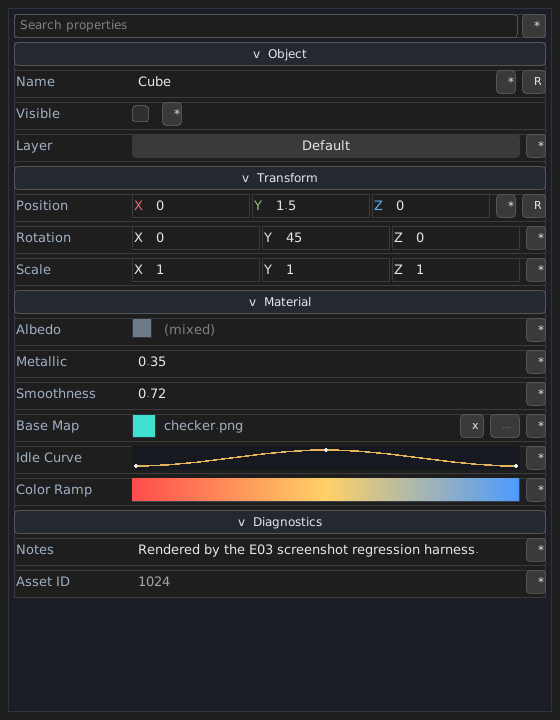
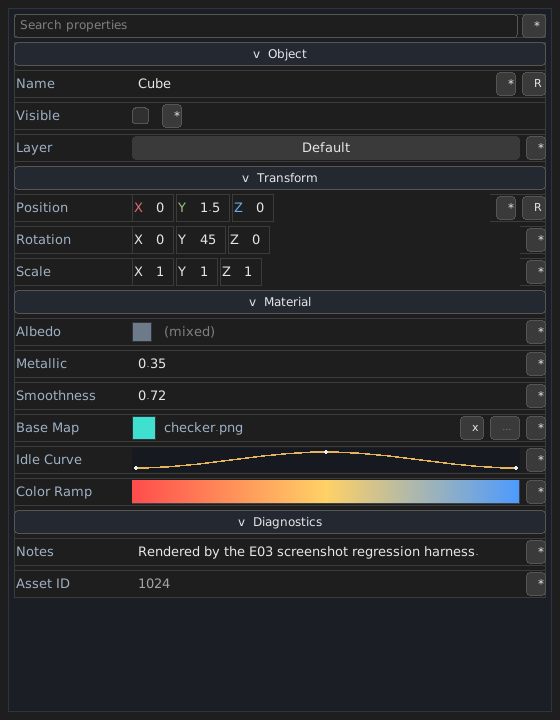
w

diff --git a/gui/vgui.cpp b/gui/vgui.cpp
@@ -458,6 +458,9 @@ struct vgui_widget
 	float content_w = 0, content_h = 0;
 	int scroll_drag_axis = 0;	// 面板滚动条拖动: 0 无 / 1 垂直 / 2 水平
 	float scroll_drag_grab = 0;
+	/* Per-panel scrollbar override in logical units.  0 widths / negative inset
+	 * keep the context style, so only panels that opt in differ. */
+	float scrollbar_width_h = 0, scrollbar_width_v = 0, scrollbar_inset = -1;
 
 	float abs_x = 0, abs_y = 0, abs_w = 0, abs_h = 0;
 	float intrinsic_w = 0, intrinsic_h = 0;
@@ -6969,6 +6972,21 @@ namespace {
 		float scroll = 0;
 	};
 
+	// Panel scrollbar thickness/inset in effective pixels for one axis
+	// (1 = vertical, 2 = horizontal): the widget override (stored in logical
+	// units) when set, otherwise the context style.
+	static void vgui_panel_scrollbar_metrics(vgui_widget* w, int axis, float* width,
+		float* inset)
+	{
+		const vgui_panel_style& ps = w->ctx->style.panel;
+		const float scale = w->ctx->ui_scale > 0.0f ? w->ctx->ui_scale : 1.0f;
+		const float override_w = axis == 2 ? w->scrollbar_width_h
+			: w->scrollbar_width_v;
+		*width = override_w > 0.0f ? override_w * scale : ps.scrollbar_width;
+		*inset = w->scrollbar_inset >= 0.0f
+			? w->scrollbar_inset * scale : ps.scrollbar_inset;
+	}
+
 	// Computes the geometry of a visible scrollbar.  The values mirror the drawing
 	// code so what the user grabs is exactly what is painted.
 	static bool vgui_scrollbar_geom(vgui_widget* w, int axis, vgui_scrollbar_info* g)
@@ -6983,9 +7001,11 @@ namespace {
 		if (axis == 1)
 		{
 			if (!w->scrollable_y || w->content_h <= ih + 0.5f || ih <= st.panel.scrollbar_min_track) return false;
+			float bar_w = 0.0f, bar_inset = 0.0f;
+			vgui_panel_scrollbar_metrics(w, 1, &bar_w, &bar_inset);
 			g->track = vgui_is_rtl(w->ctx)
 				? w->abs_x
-				: w->abs_x + w->abs_w - (st.panel.scrollbar_width + st.panel.scrollbar_inset);
+				: w->abs_x + w->abs_w - (bar_w + bar_inset);
 			g->start = iy;
 			g->span = ih;
 			g->thumb_len = std::min(ih, std::max(st.panel.scrollbar_min_thumb, ih * ih / w->content_h));
@@ -6995,7 +7015,9 @@ namespace {
 		else if (axis == 2)
 		{
 			if (!w->scrollable_x || w->content_w <= iw + 0.5f || iw <= st.panel.scrollbar_min_track) return false;
-			g->track = w->abs_y + w->abs_h - (st.panel.scrollbar_width + st.panel.scrollbar_inset);
+			float bar_w = 0.0f, bar_inset = 0.0f;
+			vgui_panel_scrollbar_metrics(w, 2, &bar_w, &bar_inset);
+			g->track = w->abs_y + w->abs_h - (bar_w + bar_inset);
 			g->start = ix;
 			g->span = iw;
 			g->thumb_len = std::min(iw, std::max(st.panel.scrollbar_min_thumb, iw * iw / w->content_w));
@@ -7095,7 +7117,11 @@ namespace {
 			vgui_scrollbar_info g;
 			const vgui_style& st = w->ctx->style;
 			float edit_hit = st.edit.scrollbar_width + st.edit.scrollbar_inset + st.edit.scrollbar_hit_padding;
-			float panel_hit = st.panel.scrollbar_width + st.panel.scrollbar_inset + st.panel.scrollbar_hit_padding;
+			float panel_w_v = 0.0f, panel_w_h = 0.0f, panel_inset = 0.0f;
+			vgui_panel_scrollbar_metrics(w, 1, &panel_w_v, &panel_inset);
+			vgui_panel_scrollbar_metrics(w, 2, &panel_w_h, &panel_inset);
+			float panel_hit_v = panel_w_v + panel_inset + st.panel.scrollbar_hit_padding;
+			float panel_hit_h = panel_w_h + panel_inset + st.panel.scrollbar_hit_padding;
 			if (w->kind == VGUI_EDIT &&
 				x >= (vgui_is_rtl(w->ctx) ? w->abs_x : w->abs_x + w->abs_w - edit_hit) &&
 				x <= (vgui_is_rtl(w->ctx) ? w->abs_x + edit_hit : w->abs_x + w->abs_w) &&
@@ -7121,8 +7147,8 @@ namespace {
 				// Keep walking after a hit: ancestor bars are painted on top of
 				// descendant bars where the two overlap, and the horizontal bar is
 				// painted after the vertical one.
-				if (x >= (vgui_is_rtl(w->ctx) ? w->abs_x : w->abs_x + w->abs_w - panel_hit) &&
-					x <= (vgui_is_rtl(w->ctx) ? w->abs_x + panel_hit : w->abs_x + w->abs_w) &&
+				if (x >= (vgui_is_rtl(w->ctx) ? w->abs_x : w->abs_x + w->abs_w - panel_hit_v) &&
+					x <= (vgui_is_rtl(w->ctx) ? w->abs_x + panel_hit_v : w->abs_x + w->abs_w) &&
 					y >= w->abs_y && y <= w->abs_y + w->abs_h &&
 					vgui_scrollbar_geom(w, 1, &g) &&
 					y >= g.start && y <= g.start + g.span)
@@ -7130,7 +7156,7 @@ namespace {
 					found = w;
 					found_axis = 1;
 				}
-				if (y >= w->abs_y + w->abs_h - panel_hit && y <= w->abs_y + w->abs_h &&
+				if (y >= w->abs_y + w->abs_h - panel_hit_h && y <= w->abs_y + w->abs_h &&
 					x >= w->abs_x && x <= w->abs_x + w->abs_w &&
 					vgui_scrollbar_geom(w, 2, &g) &&
 					x >= g.start && x <= g.start + g.span)
@@ -7275,8 +7301,11 @@ namespace {
 		const float ih = std::max(0.0f, w->abs_h - w->padding[1] - w->padding[3]);
 		if (w->scrollable_y && w->content_h > ih + 0.5f &&
 			ih > st.panel.scrollbar_min_track)
-			return st.panel.scrollbar_width + st.panel.scrollbar_inset +
-				st.panel.scrollbar_hit_padding + 2.0f;
+		{
+			float bar_w = 0.0f, bar_inset = 0.0f;
+			vgui_panel_scrollbar_metrics(w, 1, &bar_w, &bar_inset);
+			return bar_w + bar_inset + st.panel.scrollbar_hit_padding + 2.0f;
+		}
 		return 0.0f;
 	}
 
@@ -11415,28 +11444,30 @@ namespace {
 		float iy = w->abs_y + w->padding[1];
 		float iw = std::max(0.0f, w->abs_w - w->padding[0] - w->padding[2]);
 		float ih = std::max(0.0f, w->abs_h - w->padding[1] - w->padding[3]);
-		float bar_w = ps.scrollbar_width;
+		float bar_w_v = 0.0f, bar_w_h = 0.0f, bar_inset = 0.0f;
+		vgui_panel_scrollbar_metrics(w, 1, &bar_w_v, &bar_inset);
+		vgui_panel_scrollbar_metrics(w, 2, &bar_w_h, &bar_inset);
 		float bar_r = ps.scrollbar_rounding;
-		float corner = bar_w + ps.scrollbar_inset;
 		if (w->scrollable_y && w->content_h > ih + 0.5f && ih > ps.scrollbar_min_track)
 		{
-			float track_x = vgui_is_rtl(ctx) ? w->abs_x : w->abs_x + w->abs_w - corner;
+			float track_x = vgui_is_rtl(ctx) ? w->abs_x
+				: w->abs_x + w->abs_w - (bar_w_v + bar_inset);
 			float th = std::min(ih, std::max(ps.scrollbar_min_thumb, ih * ih / w->content_h));
 			float max_scroll = w->content_h - ih;
 			float ty = iy + (max_scroll > 0 ? (w->scroll_y / max_scroll) * (ih - th) : 0);
-			vgui_fill_rect(cb, vg, track_x, iy, bar_w, ih, bar_r, vgui_widget_color(w, ctx->theme.track));
-			vgui_fill_rect(cb, vg, track_x, ty, bar_w, th, bar_r, vgui_scrollbar_thumb_color(w, 1));
+			vgui_fill_rect(cb, vg, track_x, iy, bar_w_v, ih, bar_r, vgui_widget_color(w, ctx->theme.track));
+			vgui_fill_rect(cb, vg, track_x, ty, bar_w_v, th, bar_r, vgui_scrollbar_thumb_color(w, 1));
 		}
 		if (w->scrollable_x && w->content_w > iw + 0.5f && iw > ps.scrollbar_min_track)
 		{
-			float track_y = w->abs_y + w->abs_h - corner;
+			float track_y = w->abs_y + w->abs_h - (bar_w_h + bar_inset);
 			float tw = std::min(iw, std::max(ps.scrollbar_min_thumb, iw * iw / w->content_w));
 			float max_scroll = w->content_w - iw;
 			float ratio = max_scroll > 0 ? (w->scroll_x / max_scroll) : 0.0f;
 			if (vgui_is_rtl(ctx)) ratio = 1.0f - ratio;
 			float tx = ix + ratio * (iw - tw);
-			vgui_fill_rect(cb, vg, ix, track_y, iw, bar_w, bar_r, vgui_widget_color(w, ctx->theme.track));
-			vgui_fill_rect(cb, vg, tx, track_y, tw, bar_w, bar_r, vgui_scrollbar_thumb_color(w, 2));
+			vgui_fill_rect(cb, vg, ix, track_y, iw, bar_w_h, bar_r, vgui_widget_color(w, ctx->theme.track));
+			vgui_fill_rect(cb, vg, tx, track_y, tw, bar_w_h, bar_r, vgui_scrollbar_thumb_color(w, 2));
 		}
 	}
 
@@ -15245,6 +15276,16 @@ extern "C" {
 		if (!panel) return;
 		panel->scrollable_x = horizontal ? 1 : 0;
 		panel->scrollable_y = vertical ? 1 : 0;
+		vgui_mark_dirty(panel);
+	}
+
+	void vgui_panel_set_scrollbar_size(vgui_widget* panel, float horizontal,
+		float vertical, float inset)
+	{
+		if (!panel) return;
+		panel->scrollbar_width_h = horizontal > 0.0f ? horizontal : 0.0f;
+		panel->scrollbar_width_v = vertical > 0.0f ? vertical : 0.0f;
+		panel->scrollbar_inset = inset >= 0.0f ? inset : -1.0f;
 		vgui_mark_dirty(panel);
 	}
 

diff --git a/gui/editor/spinbox.cpp b/gui/editor/spinbox.cpp
@@ -213,6 +213,18 @@ namespace vgui_editor_kit {
 		return edit_min_width_;
 	}
 
+	void spinbox::set_auto_width(bool enabled)
+	{
+		auto_width_ = enabled;
+		auto_width_applied_ = 0.0f;
+		apply_auto_width();
+	}
+
+	bool spinbox::auto_width() const noexcept
+	{
+		return auto_width_;
+	}
+
 	void spinbox::apply_font()
 	{
 		/* 0 resets to "inherit the context font". */
@@ -232,13 +244,58 @@ namespace vgui_editor_kit {
 		if (label_widget_)
 			vgui_widget_set_size(label_widget_,
 				label_.empty() ? kEmptyLabelWidth : label_width_, row_h);
+		auto_width_applied_ = 0.0f;
 		if (edit_)
-			vgui_widget_set_size(edit_,
-				edit_min_width_ > 0.0f ? edit_min_width_ : 0.0f, row_h);
+		{
+			const float width = edit_min_width_ > 0.0f ? edit_min_width_
+				: (auto_width_ ? auto_edit_width() : 0.0f);
+			if (auto_width_ && edit_min_width_ <= 0.0f)
+				auto_width_applied_ = width;
+			vgui_widget_set_size(edit_, width, row_h);
+		}
 		if (decrement_.widget())
 			vgui_widget_set_size(decrement_.widget(), row_h, row_h);
 		if (increment_.widget())
 			vgui_widget_set_size(increment_.widget(), row_h, row_h);
+	}
+
+	/* Width that fits the text currently in the edit.  Falls back to a
+	 * per-character estimate when the font is unavailable (headless tests) so
+	 * the field never collapses to bare padding. */
+	float spinbox::auto_edit_width() const
+	{
+		if (!edit_)
+			return 0.0f;
+		const char* current = vgui_edit_get_text(edit_);
+		const std::string text = current ? current : value_text();
+		vgui_context* ctx = vgui_widget_get_context(edit_);
+		float text_w = text.empty() ? 0.0f
+			: to_logical(edit_, vgui_widget_measure_text(edit_, text.c_str()));
+		if (text_w <= 0.0f)
+		{
+			const float font = font_size_ > 0.0f
+				? font_size_ : editor_font_size(ctx);
+			text_w = font * 0.62f * (float)text.size();
+		}
+		float padding = 16.0f;
+		if (ctx)
+		{
+			vgui_style style;
+			vgui_context_get_style(ctx, &style);
+			padding = style.edit.padding_x * 2.0f + 4.0f;
+		}
+		return text_w + std::max(padding, 16.0f);
+	}
+
+	void spinbox::apply_auto_width()
+	{
+		if (!edit_ || !auto_width_ || edit_min_width_ > 0.0f)
+			return;
+		const float width = std::max(auto_edit_width(), 24.0f);
+		if (std::fabs(width - auto_width_applied_) < 0.5f)
+			return;
+		auto_width_applied_ = width;
+		vgui_widget_set_size(edit_, width, chrome_row_height());
 	}
 
 	float spinbox::chrome_row_height() const
@@ -411,6 +468,7 @@ namespace vgui_editor_kit {
 		const char* current = vgui_edit_get_text(edit_);
 		if (!current || text != current)
 			vgui_edit_set_text(edit_, text.c_str());
+		apply_auto_width();
 	}
 
 	bool spinbox::commit_text(std::string text)

diff --git a/gui/editor/property_grid.cpp b/gui/editor/property_grid.cpp
@@ -592,6 +592,9 @@ namespace vgui_editor_kit {
 		/* Narrow hosts keep rows usable: below this width the panel scrolls
 		 * horizontally instead of squeezing the editor fields to nothing. */
 		vgui_panel_set_scrollable(panel_, 1, 1);
+		/* The stock 5px bar is hard to grab with a pointer; the horizontal bar
+		 * (the one a narrow dock shows) uses a thicker body and hit area. */
+		vgui_panel_set_scrollbar_size(panel_, 10, 0, -1);
 
 		/* 搜索行 = 搜索框 + P08 收藏过滤开关(高度保持 24,kSearchLead
 		 * 不变)。 */
@@ -1806,6 +1809,9 @@ private:
 		vgui_widget_set_size(item.line, 0, kRowHeight);
 		vgui_widget_set_align_self(item.line, VGUI_ALIGN_STRETCH);
 		vgui_widget_set_layout(item.line, VGUI_LAYOUT_ROW);
+		/* 24px controls sit in a 28px row; centering keeps the 2px slack on
+		 * both edges so labels and values share one baseline. */
+		vgui_widget_set_align_items(item.line, VGUI_ALIGN_CENTER);
 		vgui_widget_set_gap(item.line, 6);
 		vgui_widget_set_padding(item.line, 0, 0, 0, 0);
 
@@ -1931,8 +1937,11 @@ private:
 			if (item.vector_ui->widget())
 			{
 				vgui_widget_set_grow(item.vector_ui->widget(), 1.0f);
-				vgui_widget_set_size(item.vector_ui->widget(), 0, 24);
-				vgui_widget_set_min_size(item.vector_ui->widget(), 80, 24);
+				/* Fill the row so the component borders line up with the row
+				 * border instead of leaving a gap at the bottom. */
+				vgui_widget_set_size(item.vector_ui->widget(), 0, kRowHeight);
+				vgui_widget_set_min_size(item.vector_ui->widget(), 80,
+					kRowHeight);
 				/* Let the row background show through the value fields. */
 				for (int i = 0; i < item.vector_ui->dimension(); ++i)
 				{

diff --git a/gui/editor/vector_editor.cpp b/gui/editor/vector_editor.cpp
@@ -81,7 +81,10 @@ namespace vgui_editor_kit {
 		vgui_widget_set_layout(panel_, VGUI_LAYOUT_ROW);
 		vgui_widget_set_padding(panel_, 0, 0, 0, 0);
 		vgui_widget_set_gap(panel_, 2);
-		vgui_widget_set_align_items(panel_, VGUI_ALIGN_CENTER);
+		/* Components stretch to the parent row: property-grid rows are 28px
+		 * while the spinbox chrome is 24px, and the value boxes must touch the
+		 * row border on both edges instead of hanging from the top. */
+		vgui_widget_set_align_items(panel_, VGUI_ALIGN_STRETCH);
 
 		components_.clear();
 		for (int i = 0; i < dimension_; ++i)
@@ -97,13 +100,17 @@ namespace vgui_editor_kit {
 			box->set_label(labels_[(std::size_t)i]);
 			box->set_label_width(kAxisLabelWidth);
 			box->set_buttons_visible(false);
+			/* Each field only reserves room for its own digits, so short
+			 * values stay compact and longer values widen their field. */
+			box->set_auto_width(true);
 			box->set_on_change([this, i](double) { handle_change(i); });
 			box->set_on_commit([this, i](double) { handle_commit(i); });
 			box->build(panel_);
 			if (!box->widget())
 				continue;
-			vgui_widget_set_grow(box->widget(), 1.0f);
-			vgui_widget_set_size(box->widget(), 0, kRowHeight);
+			/* No grow: each component keeps the width its own text needs, so
+			 * short values do not reserve the same space as long ones. */
+			vgui_widget_set_size(box->widget(), 0, 0);
 			vgui_widget_set_min_size(box->widget(), kComponentMinWidth,
 				kRowHeight);
 			components_.push_back(std::move(box));

diff --git a/gui/editor/spinbox.h b/gui/editor/spinbox.h
@@ -71,6 +71,12 @@ namespace vgui_editor_kit {
 		void set_edit_min_width(float width);
 		float edit_min_width() const noexcept;
 
+		/* Size the edit box to the current text instead of the style floor, so
+		 * a field only reserves room for the digits it shows and widens as the
+		 * value grows.  Compact vector components enable this. */
+		void set_auto_width(bool enabled);
+		bool auto_width() const noexcept;
+
 		/* Step buttons are shown by default.  Compact editors can hide them
 		 * and rely on text input plus label dragging instead. */
 		void set_buttons_visible(bool visible);
@@ -139,6 +145,8 @@ namespace vgui_editor_kit {
 		void update_error_ui();
 		void apply_font();
 		void apply_chrome();
+		float auto_edit_width() const;
+		void apply_auto_width();
 		float chrome_row_height() const;
 		double effective_step() const noexcept;
 		double normalize_value(double value, bool snap_to_step) const noexcept;
@@ -163,6 +171,8 @@ namespace vgui_editor_kit {
 		float label_width_ = 72.0f;
 		float font_size_ = 0.0f;	/* 0 = follow the context font */
 		float edit_min_width_ = 0.0f;	/* 0 = follow style.edit.min_width */
+		float auto_width_applied_ = 0.0f;	/* last text-derived edit width */
+		bool auto_width_ = false;
 		bool buttons_visible_ = true;
 		value_type type_ = value_type::number;
 		double value_ = 0.0;

diff --git a/gui/vgui.h b/gui/vgui.h
@@ -1183,6 +1183,11 @@ extern "C" {
 
 	/* Panels: scrolling.  Scroll offsets are clamped to the content extent. */
 	VGUI_API void vgui_panel_set_scrollable(vgui_widget* panel, int horizontal, int vertical);
+	/* Per-panel scrollbar thickness and edge inset in logical units.  A width
+	 * <= 0 keeps the style thickness for that axis; inset < 0 keeps the style
+	 * inset, so a panel only differs when it opts in. */
+	VGUI_API void vgui_panel_set_scrollbar_size(vgui_widget* panel, float horizontal,
+		float vertical, float inset);
 	VGUI_API void vgui_panel_set_scroll(vgui_widget* panel, float x, float y);
 	VGUI_API void vgui_panel_scroll_by(vgui_widget* panel, float dx, float dy);
 	VGUI_API void vgui_panel_get_scroll(vgui_widget* panel, float* x, float* y);
